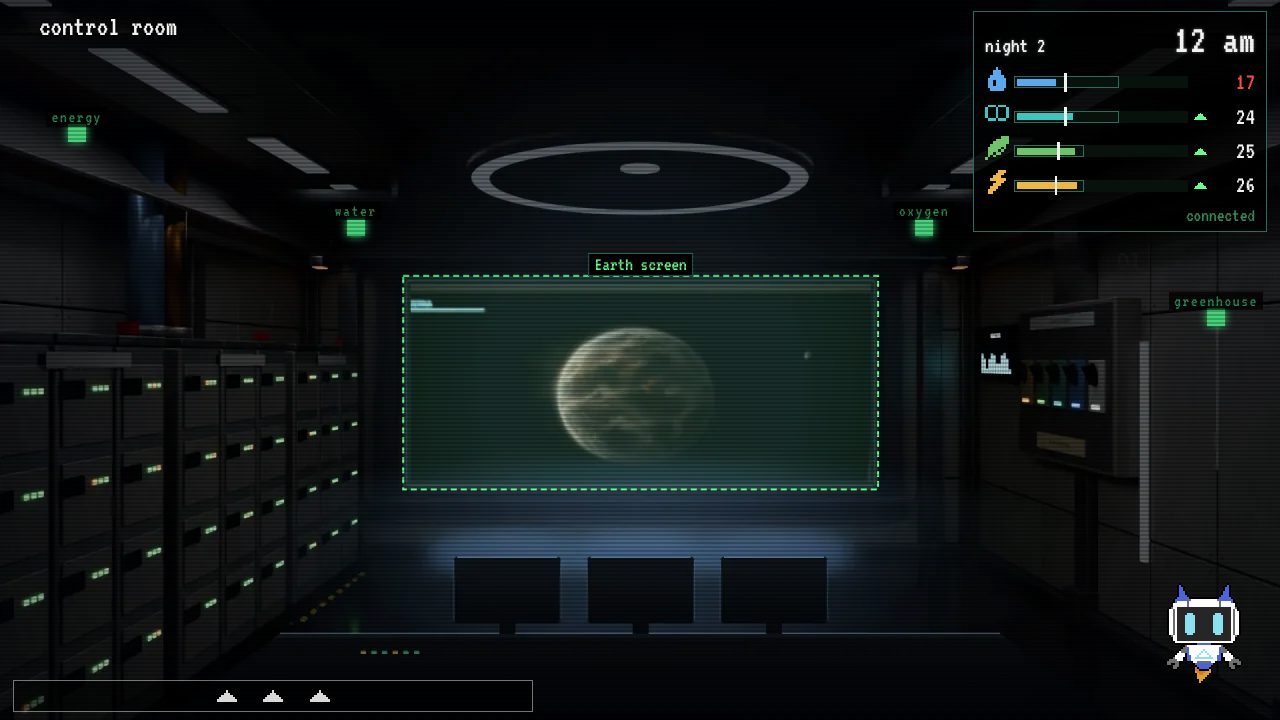
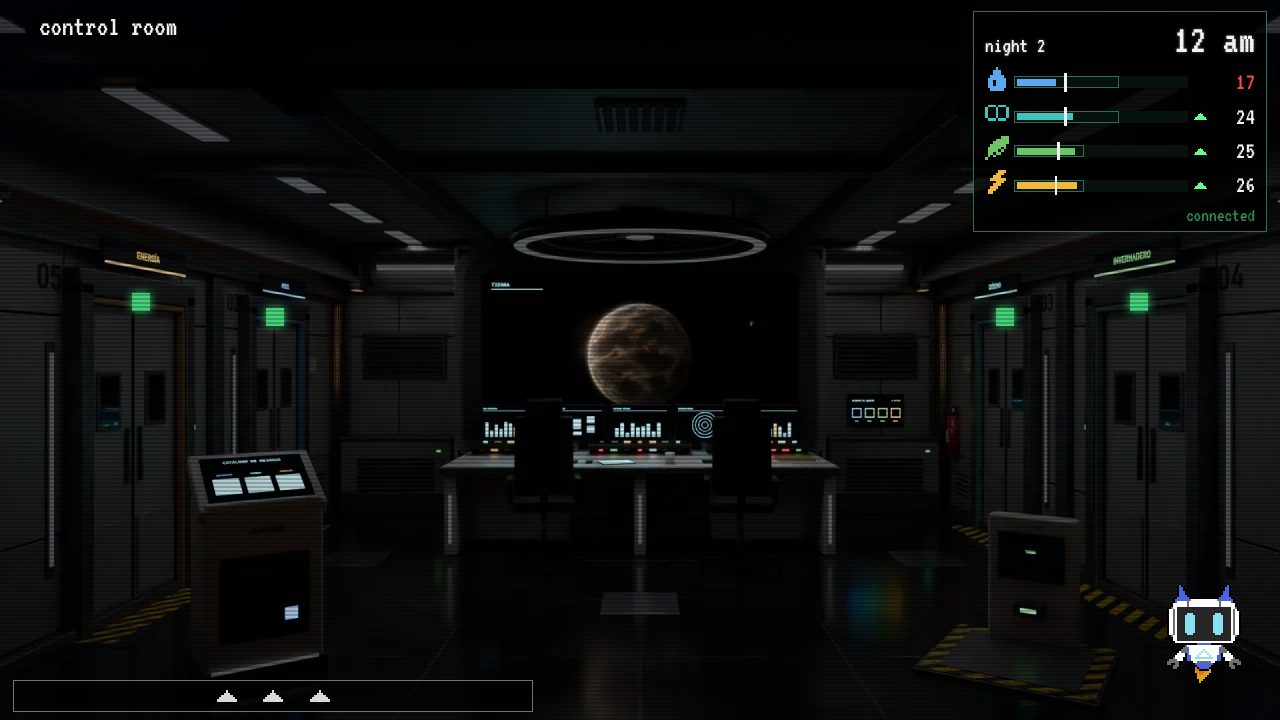
Control de noche: renders del equipo
- C1_CONTROL_noche como fondo de noche y C1_CONTROL_upg_Blindaje como capa.
- C1_CONTROL_tormenta_solar como fondo durante la tormenta solar (sin el tinte CSS encima).
- Zonas y luces de las 4 puertas, quiosco y pantalla de la Tierra sobre el render; las puertas
  ya traen sus carteles, así que se quitan las etiquetas añadidas.
- Fuera el render provisional (make-control-night.mjs).

Claude-Session: https://claude.ai/code/session_01Ra9uTdqwcs6YSEjAgfRJ5W

diff --git a/src/view/room/roomView.ts b/src/view/room/roomView.ts
@@ -154,10 +154,11 @@ export class RoomView {
     if (this.usingImages) {
       const imgs: HTMLElement[] = [];
       const pick = (name?: string) => (name ? this.manifest!.images[`night/${name}`] : undefined);
-      // Tormenta de arena con render propio (Energía); si no, el fondo de noche con el efecto CSS.
-      const sand = v.storm === 'sand' ? pick(this.def.layers.base.replace(/_base$/, '_sand')) : undefined;
-      this.el.classList.toggle('sand-render', !!sand);
-      imgs.push(this.img(sand ?? pick(this.def.layers.base)!, 'base'));
+      // Tormentas con render propio (arena en Energía, solar en Control); si no, el fondo de noche con el efecto CSS.
+      const storm = v.storm ? pick(this.def.layers.base.replace(/_base$/, `_${v.storm}`)) : undefined;
+      this.el.classList.toggle('sand-render', !!storm && v.storm === 'sand');
+      this.el.classList.toggle('solar-render', !!storm && v.storm === 'solar');
+      imgs.push(this.img(storm ?? pick(this.def.layers.base)!, 'base'));
       for (const u of mine) {
         // Nivel II/III sin capa propia: se usa la del nivel I (la insignia lo indica).
         const e = pick(u.layer) ?? pick(u.layer.replace(/\d$/, '1'));
@@ -213,13 +214,10 @@ export class RoomView {
     if (v.doors) {
       for (const [room, st] of Object.entries(v.doors)) {
         const a = this.anchors[`door.${room}`] as number[] | undefined;
-        if (!a) continue;
-        fx.push(h('div', { class: `doorlight ${st === 'ok' ? '' : st}`, style: `left:${a[0] * 100}%;top:${a[1] * 100}%` }));
-        // En el render no hay carteles en las puertas: una etiqueta corta junto a la luz.
-        if (this.usingImages) fx.push(h('div', { class: 'doortag', style: `left:${a[0] * 100}%;top:${a[1] * 100}%` }, t(`cat.${room}`).toLowerCase()));
+        if (a) fx.push(h('div', { class: `doorlight ${st === 'ok' ? '' : st}`, style: `left:${a[0] * 100}%;top:${a[1] * 100}%` }));
       }
     }
-    if (v.storm === 'solar') fx.push(h('div', { class: 'solar' }), h('div', { class: 'solar-v' }));
+    if (v.storm === 'solar') fx.push(...(this.el.classList.contains('solar-render') ? [] : [h('div', { class: 'solar' })]), h('div', { class: 'solar-v' }));
     this.fx.replaceChildren(...fx);
     this.zonesSvg.querySelectorAll('polygon').forEach((p) => p.classList.toggle('alert', !!v.alertZones?.includes(p.getAttribute('data-zone')!)));
     if (this.hl) this.highlight(this.hl);

diff --git a/src/styles/main.css b/src/styles/main.css
@@ -399,10 +399,11 @@ img.thumb { object-fit: contain; }
 .credits li .chip { margin-left: .5em; font-size: .8em; }
 
 /* ---------- Renders de sala de noche: el fondo ya es de noche; las capas de mejora vienen con luz de día y se apagan ---------- */
-.room.has-render.is-night:not(.sand-render):not([data-room="control"]) .art img.upg { filter: brightness(var(--upg-night, .5)) saturate(.85); }
+.room.has-render.is-night:not(.sand-render) .art img.upg { filter: brightness(var(--upg-night, .5)) saturate(.85); }
 .room.has-render .fx .night { background: radial-gradient(ellipse at 50% 60%, rgba(0, 0, 0, 0) 0, rgba(2, 5, 14, .12) 55%, rgba(1, 3, 10, .5) 100%); }
 .room.has-render .fx .sand { background: rgba(200, 110, 40, .38); }
 .room.sand-render.is-night .art { filter: brightness(.62) saturate(.92); }
+.room.solar-render .fx .solar-v { background: rgba(40, 0, 0, .18); }
 
 
 /* ---------- Día: mapa de la base (las 5 vistas cenitales unidas), se arrastra ---------- */
@@ -427,5 +428,3 @@ img.thumb { object-fit: contain; }
 @keyframes hintNudge { 0%, 100% { margin-left: calc(-14 * var(--u)); } 50% { margin-left: calc(14 * var(--u)); } }
 .reduce-flash .map-hint { animation: none; }
 
-/* Puertas de Control en el render: una etiqueta corta junto a la luz */
-.fx .doortag { position: absolute; transform: translate(-50%, calc(-100% - 10 * var(--u))); font-size: .7em; letter-spacing: .1em; color: var(--g-dim); background: #000b; padding: 0 .3em; white-space: nowrap; pointer-events: none; }

diff --git a/docs/renders-preview/check.md b/docs/renders-preview/check.md
@@ -38,7 +38,7 @@
 
 | Sala | Capas | Base de día + capas frente a «completa_dia» (PSNR) | Píxeles distintos | Capas vacías |
 |---|---|---|---|---|
-| C1_CONTROL | hecho a partir de la sala de Energía de noche (make-control-night.mjs) | | | |
+| C1_CONTROL | 1 | 38.9 dB | 0.04 % | 0 |
 | C2_AGUA | 6 | 28.7 dB | 3.44 % | 0 |
 | C3_OXIGENO | 6 | 27.5 dB | 4.01 % | 0 |
 | C4_INVERNADERO | 6 | 28.5 dB | 3.67 % | 0 |
